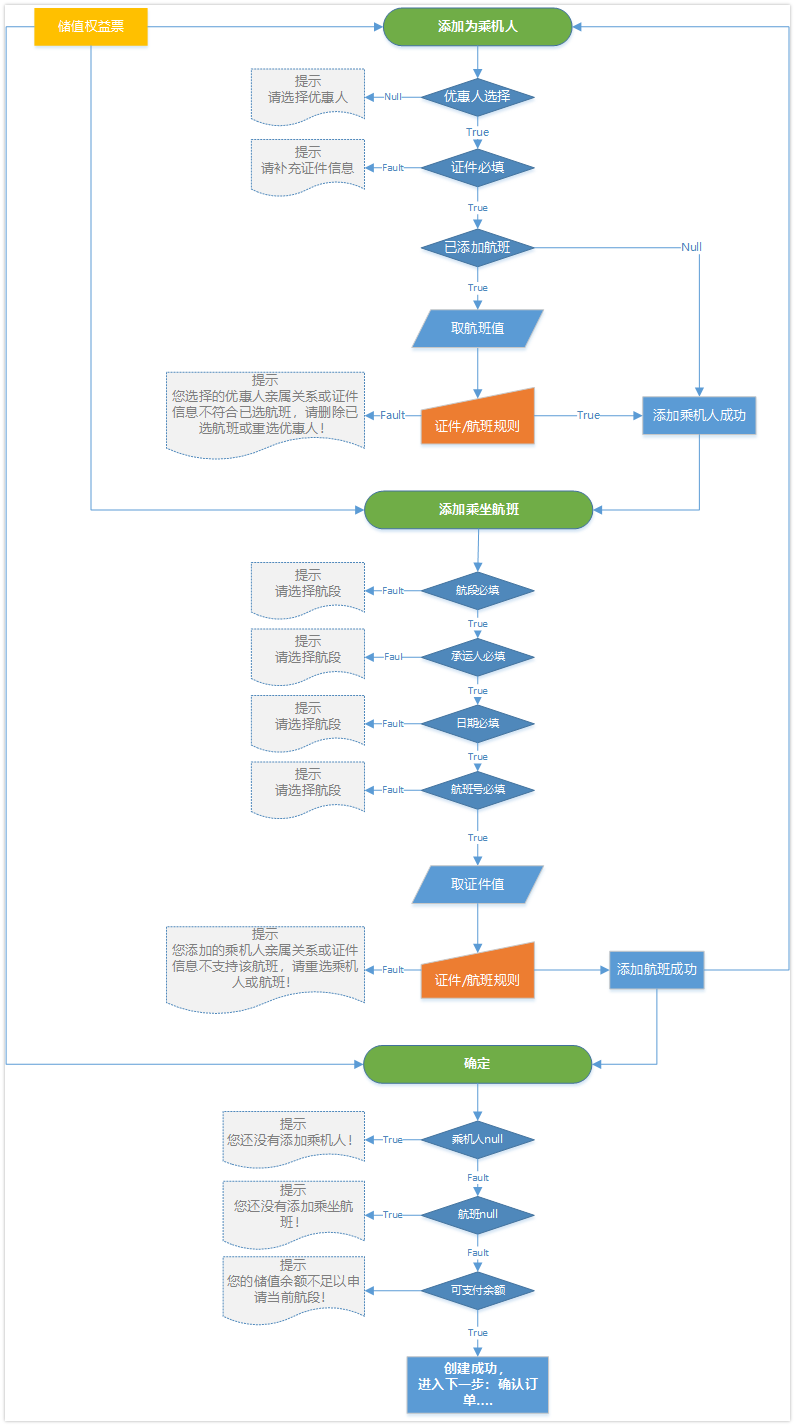
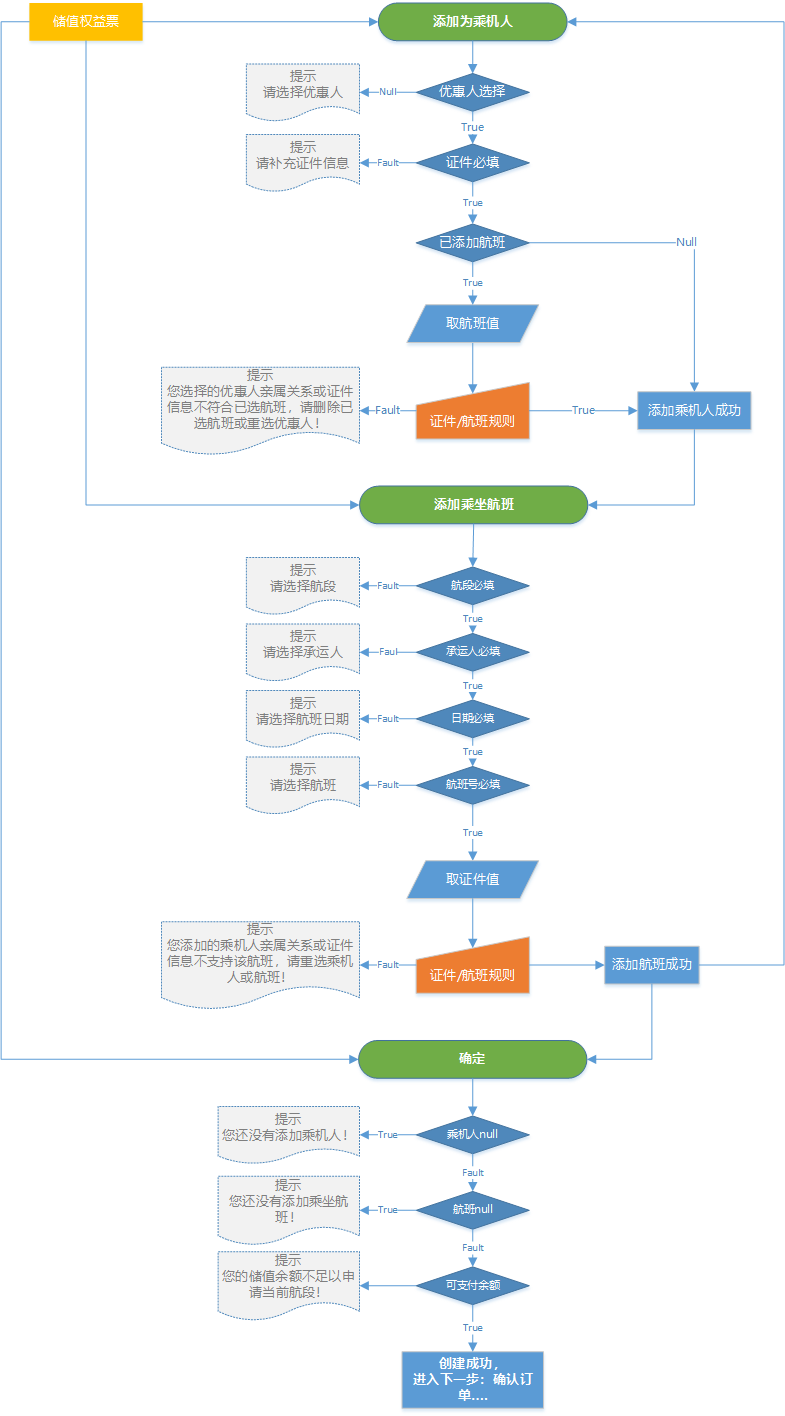
1.8.4
修改流程图的文字

diff --git a/files/pc/data.js b/files/pc/data.js
@@ -1,7 +1,7 @@
 $axure.loadCurrentPage(
 (function() {
     var _ = function() { var r={},a=arguments; for(var i=0; i<a.length; i+=2) r[a[i]]=a[i+1]; return r; }
-    var _creator = function() { return _(b,c,d,e,f,g,h,g,i,_(j,k),l,[m,n,o,p,q,r,s,t],u,_(v,w,x,y,z,A,B,_(),C,_(D,E,F,G,H,_(I,J,K,L),M,null,N,G,O,G,P,Q,R,null,S,T,U,V,W,X,Y,T),Z,_(),ba,_(),bb,_(bc,[_(bd,be,bf,j,bg,bh,x,bi,bj,bk,bl,bm,C,_(bn,_(bo,bp,bq,br),D,bs,bt,_(bu,bv,bw,bx),by,_(I,J,K,bz)),Z,_(),bA,_(),bB,_(bC,bD),bE,g),_(bd,bF,bf,j,bg,bG,x,bi,bj,bi,bl,bm,C,_(bn,_(bo,bH,bq,bI),D,bJ,bt,_(bu,bK,bw,bL)),Z,_(),bA,_(),bE,g),_(bd,bM,bf,j,bg,bN,x,bO,bj,bO,bl,bm,C,_(bn,_(bo,bP,bq,bQ),D,bR,bt,_(bu,bS,bw,bT)),bU,g,Z,_(),bA,_()),_(bd,bV,bf,j,bg,bG,x,bi,bj,bi,bl,bm,C,_(bn,_(bo,bH,bq,bI),D,bJ,bt,_(bu,bK,bw,bW)),Z,_(),bA,_(),bE,g),_(bd,bX,bf,j,bg,bG,x,bi,bj,bi,bl,bm,C,_(bn,_(bo,bP,bq,bQ),D,bY,bt,_(bu,bS,bw,bZ),by,_(I,J,K,ca),H,_(I,J,K,cb)),Z,_(),bA,_(),bE,g),_(bd,cc,bf,j,bg,bG,x,bi,bj,bi,bl,bm,C,_(bn,_(bo,bH,bq,bI),D,bJ,bt,_(bu,bK,bw,cd)),Z,_(),bA,_(),bE,g),_(bd,ce,bf,j,bg,bN,x,bO,bj,bO,bl,bm,C,_(bn,_(bo,cf,bq,bQ),D,bR,bt,_(bu,bS,bw,cg)),bU,g,Z,_(),bA,_()),_(bd,ch,bf,j,bg,bN,x,bO,bj,bO,bl,bm,C,_(bn,_(bo,ci,bq,bQ),D,bR,bt,_(bu,cj,bw,bZ)),bU,g,Z,_(),bA,_()),_(bd,ck,bf,j,bg,bG,x,bi,bj,bi,bl,bm,C,_(bn,_(bo,bH,bq,bI),D,bJ,bt,_(bu,cl,bw,bW)),Z,_(),bA,_(),bE,g),_(bd,cm,bf,j,bg,bG,x,bi,bj,bi,bl,bm,C,_(cn,_(I,J,K,co,cp,bp),bn,_(bo,cq,bq,bI),D,bJ,bt,_(bu,cr,bw,cd),cs,bm),Z,_(),bA,_(),bE,g),_(bd,ct,bf,j,bg,bG,x,bi,bj,bi,bl,bm,C,_(bn,_(bo,cu,bq,bI),D,bJ,bt,_(bu,cv,bw,cd)),Z,_(),bA,_(),bE,g),_(bd,cw,bf,j,bg,bG,x,bi,bj,bi,bl,bm,C,_(bn,_(bo,cx,bq,bQ),D,bY,bt,_(bu,cy,bw,cg),by,_(I,J,K,ca)),Z,_(),bA,_(),bE,g),_(bd,cz,bf,j,bg,bG,x,bi,bj,bi,bl,bm,C,_(bn,_(bo,cq,bq,bI),D,bJ,bt,_(bu,cA,bw,cd)),Z,_(),bA,_(),bE,g),_(bd,cB,bf,j,bg,bG,x,bi,bj,bi,bl,bm,C,_(bn,_(bo,cx,bq,bQ),D,bY,bt,_(bu,cC,bw,cg),by,_(I,J,K,ca)),Z,_(),bA,_(),bE,g),_(bd,cD,bf,j,bg,cE,x,cF,bj,cF,bl,g,C,_(bn,_(bo,cG,bq,cH),bt,_(bu,cI,bw,cJ),bl,g),Z,_(),bA,_(),cK,cL,cM,g,cN,g,cO,[_(bd,cP,bf,cQ,x,cR,bc,[_(bd,cS,bf,j,bg,cT,cU,cD,cV,cW,x,cX,bj,cX,bl,bm,C,_(D,cY,bn,_(bo,cZ,bq,cH),bt,_(bu,da,bw,db)),Z,_(),bA,_(),bB,_(bC,dc)),_(bd,dd,bf,j,bg,de,cU,cD,cV,cW,x,df,bj,df,bl,bm,C,_(bn,_(bo,dg,bq,cu),bt,_(bu,dh,bw,di)),Z,_(),bA,_(),ba,_(dj,_(dk,dl,dm,[_(dk,dn,dp,g,dq,[_(dr,ds,dk,dt,du,[_(dv,[cD],dw,_(dx,dy,dz,_(dA,dB,dC,g,dD,bm,dE,cL,dF,dG)))])])])),dH,bm)],C,_(H,_(I,J,K,dI),M,null,N,G,O,G,P,Q),Z,_())]),_(bd,dJ,bf,j,bg,bG,x,bi,bj,bi,bl,bm,C,_(bn,_(bo,cq,bq,bI),D,bJ,bt,_(bu,bK,bw,dK)),Z,_(),bA,_(),bE,g),_(bd,dL,bf,j,bg,dM,x,dN,bj,dN,bl,bm,C,_(bn,_(bo,dO,bq,bI),D,dP,bt,_(bu,bS,bw,dK)),Z,_(),bA,_(),dQ,bI),_(bd,dR,bf,j,bg,bG,x,bi,bj,bi,bl,bm,C,_(bn,_(bo,cq,bq,bI),D,bJ,bt,_(bu,bK,bw,dS)),Z,_(),bA,_(),bE,g),_(bd,dT,bf,j,bg,bN,x,bO,bj,bO,bl,bm,C,_(bn,_(bo,cf,bq,bQ),D,bR,bt,_(bu,bS,bw,dU)),bU,g,Z,_(),bA,_()),_(bd,dV,bf,j,bg,bG,x,bi,bj,bi,bl,bm,C,_(bn,_(bo,cq,bq,bI),D,bJ,bt,_(bu,bK,bw,dW)),Z,_(),bA,_(),bE,g),_(bd,dX,bf,j,bg,bG,x,bi,bj,bi,bl,bm,C,_(bn,_(bo,bv,bq,bQ),D,bY,bt,_(bu,dY,bw,dZ),by,_(I,J,K,ca)),Z,_(),bA,_(),bE,g),_(bd,ea,bf,j,bg,bG,x,bi,bj,bi,bl,bm,C,_(bn,_(bo,eb,bq,bQ),D,bY,bt,_(bu,ec,bw,dZ),by,_(I,J,K,ca)),Z,_(),bA,_(),bE,g),_(bd,ed,bf,j,bg,bN,x,bO,bj,bO,bl,bm,C,_(bn,_(bo,cf,bq,bQ),D,bR,bt,_(bu,ee,bw,dZ)),bU,g,Z,_(),bA,_()),_(bd,ef,bf,j,bg,bG,x,bi,bj,bi,bl,bm,C,_(bn,_(bo,cu,bq,bI),D,bJ,bt,_(bu,eg,bw,dW)),Z,_(),bA,_(),bE,g),_(bd,eh,bf,j,bg,bG,x,bi,bj,bi,bl,bm,C,_(bn,_(bo,cq,bq,bI),D,bJ,bt,_(bu,bK,bw,ei)),Z,_(),bA,_(),bE,g),_(bd,ej,bf,j,bg,bG,x,bi,bj,bi,bl,bm,C,_(bn,_(bo,cf,bq,bQ),D,bY,bt,_(bu,bS,bw,ek),by,_(I,J,K,ca)),Z,_(),bA,_(),bE,g),_(bd,el,bf,j,bg,bN,x,bO,bj,bO,bl,bm,C,_(bn,_(bo,em,bq,bQ),D,bR,bt,_(bu,en,bw,ek)),bU,g,Z,_(),bA,_()),_(bd,eo,bf,j,bg,bG,x,bi,bj,bi,bl,bm,C,_(bn,_(bo,cu,bq,bI),D,bJ,bt,_(bu,ep,bw,eq)),Z,_(),bA,_(),bE,g),_(bd,er,bf,j,bg,bG,x,bi,bj,bi,bl,bm,C,_(bn,_(bo,cu,bq,bI),D,bJ,bt,_(bu,es,bw,dW)),Z,_(),bA,_(),bE,g),_(bd,et,bf,j,bg,bG,x,bi,bj,bi,bl,bm,C,_(bn,_(bo,cu,bq,bI),D,bJ,bt,_(bu,bS,bw,dW)),Z,_(),bA,_(),bE,g),_(bd,eu,bf,j,bg,cE,x,cF,bj,cF,bl,g,C,_(bn,_(bo,ev,bq,ev),bt,_(bu,bS,bw,ew),bl,g),Z,_(),bA,_(),cK,cL,cM,bm,cN,g,cO,[_(bd,ex,bf,cQ,x,cR,bc,[_(bd,ey,bf,j,bg,cT,cU,eu,cV,cW,x,cX,bj,cX,bl,bm,C,_(D,cY,bn,_(bo,cZ,bq,cH)),Z,_(),bA,_(),bB,_(bC,ez))],C,_(H,_(I,J,K,dI),M,null,N,G,O,G,P,Q),Z,_())]),_(bd,eA,bf,j,bg,bG,x,bi,bj,bi,bl,bm,C,_(cn,_(I,J,K,eB,cp,bp),D,eC,bn,_(bo,eD,bq,eE),bt,_(bu,bK,bw,cv),eF,eG),Z,_(),bA,_(),bE,g),_(bd,eH,bf,j,bg,cT,x,cX,bj,cX,bl,bm,C,_(D,cY,bn,_(bo,eI,bq,eJ),bt,_(bu,eK,bw,eL)),Z,_(),bA,_(),bB,_(bC,eM)),_(bd,eN,bf,j,bg,cT,x,cX,bj,cX,bl,bm,C,_(D,eO,bn,_(bo,eP,bq,eP),bt,_(bu,eQ,bw,eR)),Z,_(),bA,_(),ba,_(dj,_(dk,dl,dm,[_(dk,dn,dp,g,dq,[_(dr,ds,dk,eS,du,[_(dv,[eT],dw,_(dx,eU,dz,_(dA,cL,dC,g)))])])])),dH,bm,bB,_(bC,eV)),_(bd,eT,bf,eW,bg,cE,x,cF,bj,cF,bl,g,C,_(bn,_(bo,eX,bq,eY),bt,_(bu,cH,bw,eZ),bl,g),Z,_(),bA,_(),cK,cL,cM,g,cN,g,cO,[_(bd,fa,bf,cQ,x,cR,bc,[_(bd,fb,bf,j,bg,bG,cU,eT,cV,cW,x,bi,bj,bi,bl,bm,C,_(bn,_(bo,fc,bq,fd),D,bY,fe,_(ff,bm,fg,fh,fi,fj,fk,fl,K,_(fm,cW,fn,cW,fo,cW,fp,fq)),by,_(I,J,K,bz)),Z,_(),bA,_(),bE,g),_(bd,fr,bf,j,bg,bG,cU,eT,cV,cW,x,bi,bj,bi,bl,bm,C,_(bn,_(bo,fs,bq,ft),D,bJ,bt,_(bu,fu,bw,fv),eF,eG),Z,_(),bA,_(),bE,g),_(bd,fw,bf,j,bg,cT,cU,eT,cV,cW,x,cX,bj,cX,bl,bm,C,_(D,cY,bn,_(bo,fx,bq,fx),bt,_(bu,fy,bw,fj)),Z,_(),bA,_(),ba,_(dj,_(dk,dl,dm,[_(dk,dn,dp,g,dq,[_(dr,ds,dk,fz,du,[_(dv,[eT],dw,_(dx,dy,dz,_(dA,cL,dC,g)))])])])),dH,bm,bB,_(bC,fA))],C,_(H,_(I,J,K,dI),M,null,N,G,O,G,P,Q),Z,_())]),_(bd,fB,bf,j,bg,cT,x,cX,bj,cX,bl,bm,C,_(D,eO,bn,_(bo,eP,bq,eP),bt,_(bu,eQ,bw,fC)),Z,_(),bA,_(),ba,_(dj,_(dk,dl,dm,[_(dk,dn,dp,g,dq,[_(dr,ds,dk,fD,du,[_(dv,[fE],dw,_(dx,eU,dz,_(dA,cL,dC,g)))])])])),dH,bm,bB,_(bC,eV)),_(bd,fE,bf,fF,bg,cE,x,cF,bj,cF,bl,g,C,_(bn,_(bo,eX,bq,eY),bt,_(bu,cH,bw,fG),bl,g),Z,_(),bA,_(),cK,cL,cM,g,cN,g,cO,[_(bd,fH,bf,cQ,x,cR,bc,[_(bd,fI,bf,j,bg,bG,cU,fE,cV,cW,x,bi,bj,bi,bl,bm,C,_(bn,_(bo,fc,bq,fd),D,bY,fe,_(ff,bm,fg,fh,fi,fj,fk,fl,K,_(fm,cW,fn,cW,fo,cW,fp,fq)),by,_(I,J,K,bz)),Z,_(),bA,_(),bE,g),_(bd,fJ,bf,j,bg,bG,cU,fE,cV,cW,x,bi,bj,bi,bl,bm,C,_(bn,_(bo,fs,bq,fK),D,bJ,bt,_(bu,fu,bw,fv),eF,eG),Z,_(),bA,_(),bE,g),_(bd,fL,bf,j,bg,cT,cU,fE,cV,cW,x,cX,bj,cX,bl,bm,C,_(D,cY,bn,_(bo,fx,bq,fx),bt,_(bu,fy,bw,fj)),Z,_(),bA,_(),ba,_(dj,_(dk,dl,dm,[_(dk,dn,dp,g,dq,[_(dr,ds,dk,fM,du,[_(dv,[fE],dw,_(dx,dy,dz,_(dA,cL,dC,g)))])])])),dH,bm,bB,_(bC,fA))],C,_(H,_(I,J,K,dI),M,null,N,G,O,G,P,Q),Z,_())]),_(bd,fN,bf,j,bg,cT,x,cX,bj,cX,bl,bm,C,_(D,cY,bn,_(bo,fO,bq,fP),bt,_(bu,bS,bw,fQ)),Z,_(),bA,_(),ba,_(dj,_(dk,dl,dm,[_(dk,dn,dp,g,dq,[_(dr,ds,dk,fR,du,[_(dv,[cD],dw,_(dx,eU,dz,_(dA,dB,dC,g,dD,bm,dE,cL,dF,dG)))])])])),dH,bm,bB,_(bC,fS)),_(bd,fT,bf,j,bg,cT,x,cX,bj,cX,bl,bm,C,_(D,cY,bn,_(bo,fU,bq,fV),bt,_(bu,bS,bw,fW)),Z,_(),bA,_(),ba,_(dj,_(dk,dl,dm,[_(dk,dn,dp,g,dq,[_(dr,ds,dk,fX,du,[_(dv,[eu],dw,_(dx,eU,dz,_(dA,cL,dC,g)))])])])),dH,bm,bB,_(bC,fY)),_(bd,fZ,bf,j,bg,bG,x,bi,bj,bi,bl,bm,C,_(cn,_(I,J,K,eB,cp,bp),bn,_(bo,ga,bq,bI),D,bJ,bt,_(bu,dG,bw,bL),cs,bm),Z,_(),bA,_(),bE,g),_(bd,gb,bf,j,bg,cE,x,cF,bj,cF,bl,g,C,_(bn,_(bo,gc,bq,gd),bt,_(bu,ge,bw,fx),bl,g),Z,_(),bA,_(),cK,cL,cM,bm,cN,g,cO,[_(bd,gf,bf,cQ,x,cR,bc,[_(bd,gg,bf,j,bg,cT,cU,gb,cV,cW,x,cX,bj,cX,bl,bm,C,_(D,cY,bn,_(bo,fx,bq,fx),bt,_(bu,gh,bw,ev)),Z,_(),bA,_(),ba,_(dj,_(dk,dl,dm,[_(dk,dn,dp,g,dq,[_(dr,ds,dk,gi,du,[_(dv,[fE],dw,_(dx,dy,dz,_(dA,cL,dC,g))),_(dv,[gb],dw,_(dx,dy,dz,_(dA,cL,dC,g)))])])])),dH,bm,bB,_(bC,fA)),_(bd,gj,bf,j,bg,cT,cU,gb,cV,cW,x,cX,bj,cX,bl,bm,C,_(D,cY,bn,_(bo,gk,bq,gl),bt,_(bu,fl,bw,gm),fe,_(ff,bm,fg,db,fi,db,fk,fl,K,_(fm,cW,fn,cW,fo,cW,fp,fq))),Z,_(),bA,_(),bB,_(bC,gn))],C,_(H,_(I,J,K,dI),M,null,N,G,O,G,P,Q),Z,_())]),_(bd,go,bf,j,bg,bG,x,bi,bj,bi,bl,bm,C,_(cn,_(I,J,K,gp,cp,bp),bn,_(bo,ga,bq,gq),D,bY,bt,_(bu,gr,bw,gs),gt,gu,gv,gw,by,_(I,J,K,bz),H,_(I,J,K,cb),gx,gy),Z,_(),bA,_(),ba,_(dj,_(dk,dl,dm,[_(dk,dn,dp,g,dq,[_(dr,ds,dk,fX,du,[_(dv,[gb],dw,_(dx,eU,dz,_(dA,cL,dC,g)))])])])),dH,bm,bB,_(bC,gz),bE,g)])),gA,_(),gB,_(gC,_(gD,gE),gF,_(gD,gG),gH,_(gD,gI),gJ,_(gD,gK),gL,_(gD,gM),gN,_(gD,gO),gP,_(gD,gQ),gR,_(gD,gS),gT,_(gD,gU),gV,_(gD,gW),gX,_(gD,gY),gZ,_(gD,ha),hb,_(gD,hc),hd,_(gD,he),hf,_(gD,hg),hh,_(gD,hi),hj,_(gD,hk),hl,_(gD,hm),hn,_(gD,ho),hp,_(gD,hq),hr,_(gD,hs),ht,_(gD,hu),hv,_(gD,hw),hx,_(gD,hy),hz,_(gD,hA),hB,_(gD,hC),hD,_(gD,hE),hF,_(gD,hG),hH,_(gD,hI),hJ,_(gD,hK),hL,_(gD,hM),hN,_(gD,hO),hP,_(gD,hQ),hR,_(gD,hS),hT,_(gD,hU),hV,_(gD,hW),hX,_(gD,hY),hZ,_(gD,ia),ib,_(gD,ic),id,_(gD,ie),ig,_(gD,ih),ii,_(gD,ij),ik,_(gD,il),im,_(gD,io),ip,_(gD,iq),ir,_(gD,is),it,_(gD,iu),iv,_(gD,iw),ix,_(gD,iy),iz,_(gD,iA),iB,_(gD,iC),iD,_(gD,iE),iF,_(gD,iG)));}; 
-var b="url",c="pc.html",d="generationDate",e=new Date(1551335724955.48),f="isCanvasEnabled",g=false,h="isAdaptiveEnabled",i="sketchKeys",j="",k="s0",l="variables",m="OnLoadVariable",n="NewVariable",o="varname",p="varidtype",q="varnumber",r="boardheight",s="newname",t="city",u="page",v="packageId",w="eed3b64818134de48ad50a2d8f2a80bd",x="type",y="Axure:Page",z="name",A="pc",B="notes",C="style",D="baseStyle",E="627587b6038d43cca051c114ac41ad32",F="pageAlignment",G="near",H="fill",I="fillType",J="solid",K="color",L=0xFFFFFFFF,M="image",N="imageHorizontalAlignment",O="imageVerticalAlignment",P="imageRepeat",Q="auto",R="favicon",S="sketchFactor",T="0",U="colorStyle",V="appliedColor",W="fontName",X="Applied Font",Y="borderWidth",Z="adaptiveStyles",ba="interactionMap",bb="diagram",bc="objects",bd="id",be="e5ae3d7518904a29837bd4f8c505818c",bf="label",bg="friendlyType",bh="垂直线",bi="vectorShape",bj="styleType",bk="verticalLine",bl="visible",bm=true,bn="size",bo="width",bp=1,bq="height",br=715,bs="619b2148ccc1497285562264d51992f9",bt="location",bu="x",bv=112,bw="y",bx=15,by="borderFill",bz=0xFFC9C9C9,bA="imageOverrides",bB="images",bC="normal~",bD="images/pc/regen/u0.png",bE="generateCompound",bF="c89483db2ec548e8932de7f36a35aa4d",bG="矩形",bH=71,bI=16,bJ="2285372321d148ec80932747449c36c9",bK=141,bL=69,bM="95fc71f549034704ba6beca601d2d61c",bN="下拉列表框",bO="comboBox",bP=242,bQ=28,bR="85f724022aae41c594175ddac9c289eb",bS=230,bT=63,bU="HideHintOnFocused",bV="df98f048353145d9af060e3f3bcc1a95",bW=107,bX="27d0e2581c6f44f3941d82bf7ed50373",bY="4b7bfc596114427989e10bb0b557d0ce",bZ=101,ca=0xFFD7D7D7,cb=0xFFF2F2F2,cc="c0ad0efe03364e38a5e0b8322c78adbf",cd=145,ce="c211c9ae60ec40c887fef6cea37cdcbc",cf=167,cg=139,ch="69e0fcf408114bfe94e9a2531b29baed",ci=105,cj=505,ck="be2da46f99f6464c84335159116dcbdd",cl=620,cm="779f1b05e127471cb985873ee140be0d",cn="foreGroundFill",co=0xFFFF0000,cp="opacity",cq=57,cr=415,cs="underline",ct="1ac70dc4c4524394bded32385f09077f",cu=43,cv=503,cw="d70707d7520646bb9a46070296ada13f",cx=195,cy=556,cz="222fde704ac84c11b6b411eea7d03ba0",cA=761,cB="4a00726839d94a1c8128a81654bbfcd3",cC=828,cD="9ff61dfeafc845dd94bb5e79ad9f0ff4",cE="动态面板",cF="dynamicPanel",cG=894,cH=74,cI=129,cJ=216,cK="scrollbars",cL="none",cM="fitToContent",cN="propagate",cO="diagrams",cP="41040bf6287c4e5b9d45bfe2adda05e6",cQ="State1",cR="Axure:PanelDiagram",cS="c5ed43fa93f74064ba032f4fa2744866",cT="图片",cU="parentDynamicPanel",cV="panelIndex",cW=0,cX="imageBox",cY="75a91ee5b9d042cfa01b8d565fe289c0",cZ=793,da=99,db=0,dc="images/pc/regen/u15.png",dd="5c1359a36ee24a48a7c94fcd27d8bbb0",de="热区",df="imageMapRegion",dg=51,dh=841,di=31,dj="onClick",dk="description",dl="鼠标单击时",dm="cases",dn="Case 1",dp="isNewIfGroup",dq="actions",dr="action",ds="fadeWidget",dt="隐藏 (动态面板) 拉动 元件 向下",du="objectsToFades",dv="objectPath",dw="fadeInfo",dx="fadeType",dy="hide",dz="options",dA="showType",dB="compress",dC="bringToFront",dD="vertical",dE="compressEasing",dF="compressDuration",dG=500,dH="tabbable",dI=0xFFFFFF,dJ="227eb4072a9e42ebaaf6545b7042ad11",dK=225,dL="f8993e21eec54227b713df2aab041098",dM="单选按钮",dN="radioButton",dO=100,dP="4eb5516f311c4bdfa0cb11d7ea75084e",dQ="extraLeft",dR="121ac0a592204f46be451c98ee8a915f",dS=257,dT="619f8b1e3b4a406e9298bec6fd2db3cf",dU=251,dV="8ddefa2cae5b4f1c9e16d1aa484c8de8",dW=299,dX="01a8c1c7ae464a10955413824f894546",dY=285,dZ=293,ea="609098b9b5b443549d5e98fee7be0c0b",eb=130,ec=493,ed="4d36fb53628b4bf58bbfef744f3696d1",ee=706,ef="adc3e8b8d583481bbde9f1feec3dfe6e",eg=653,eh="3b9322a3919844e482277f96e6ad5ec2",ei=338,ej="4b64f1f270f943628f9df40ed872e817",ek=331,el="8b10948a7ac34407bdebdeddf6c59db7",em=128,en=495,eo="2eac298e0deb400097ffa86cab541e93",ep=442,eq=337,er="6e943d50dc4c46d29de113c4b11bf1b4",es=440,et="d8d58403ae544564b08cc17ba5a6549d",eu="72ab0199ae5c46f88d6765981c39aa8f",ev=10,ew=419,ex="284882d56cfd4093b545e984d7b0fade",ey="1bc2d17f69d046c7a1d5767b2ae8db6d",ez="images/pc/regen/u33.png",eA="3d913ba3a0fb48cf96c6389c2da0f3f6",eB=0xFFAEAEAE,eC="4988d43d80b44008a4a415096f1632af",eD=581,eE=66,eF="lineSpacing",eG="22px",eH="5edf9091051a4469a9629ef58f06abe8",eI=264,eJ=55,eK=393,eL=590,eM="images/pc/regen/u35.png",eN="1906724dfe604758ab2cb566aeee4232",eO="d0ac5e6c287a4f999def00cb0b4075cc",eP=24,eQ=50,eR=173,eS="显示 提示说明",eT="b3ee3a8b82374820b1d5ec00908c6a86",eU="show",eV="images/pc/regen/u36.png",eW="提示说明",eX=311,eY=150,eZ=209,fa="17651db8a2694ecd8207c77e7c01af9b",fb="fe6fd88874cb4651a8bae933dd3eee8c",fc=304,fd=142,fe="outerShadow",ff="on",fg="offsetX",fh=2,fi="offsetY",fj=3,fk="blurRadius",fl=5,fm="r",fn="g",fo="b",fp="a",fq=0.349019607843137,fr="83d46c6173db4a5b99dc70d307cd076f",fs=283,ft=110,fu=14,fv=13,fw="a6259241d7144c449a9aee07a220fd1d",fx=20,fy=277,fz="隐藏 提示说明",fA="images/pc/regen/u40.png",fB="5f3fa56756c7407ead38ff6945e19cf2",fC=376,fD="显示 提示说明2",fE="b5949d66eaf3420ab487439382b79137",fF="提示说明2",fG=410,fH="f67eb24cc12641eb97c43f81a096750c",fI="3e54e404b37645bb9c6bd08d34543a44",fJ="388931f7383242b290fa2f364603526e",fK=88,fL="7c760d676c9f4fa69bb6abd380b6ebea",fM="隐藏 提示说明2",fN="45e68c79ef8949038848ebbd60f620e9",fO=136,fP=35,fQ=174,fR="显示 (动态面板) 推动 元件 向下",fS="images/pc/regen/u46.png",fT="5e8666561f77481c87937b5a716a227d",fU=149,fV=33,fW=370,fX="显示 (动态面板)",fY="images/pc/regen/u47.png",fZ="8cc83ea252264f0d84fe2091e2a4415d",ga=85,gb="5e9887b45fc843e5ac8e385e2afdb1e9",gc=819,gd=930,ge=93,gf="4a7626f344fe4d1a8436ea718ad09671",gg="b6107774d24f4fbaab67a8f5281bbfc0",gh=759,gi="隐藏 提示说明2,<br>(动态面板)",gj="4bd1e7740c954f239f622bb813d2dec9",gk=785,gl=1416,gm=36,gn="images/pc/regen/u51.png",go="7b9bf6e728a340be86ff02425af19037",gp=0xFF999999,gq=27,gr=8,gs=11,gt="cornerRadius",gu="13",gv="fontSize",gw="10px",gx="linePattern",gy="dashed",gz="images/pc/regen/u52.png",gA="masters",gB="objectPaths",gC="e5ae3d7518904a29837bd4f8c505818c",gD="scriptId",gE="u0",gF="c89483db2ec548e8932de7f36a35aa4d",gG="u1",gH="95fc71f549034704ba6beca601d2d61c",gI="u2",gJ="df98f048353145d9af060e3f3bcc1a95",gK="u3",gL="27d0e2581c6f44f3941d82bf7ed50373",gM="u4",gN="c0ad0efe03364e38a5e0b8322c78adbf",gO="u5",gP="c211c9ae60ec40c887fef6cea37cdcbc",gQ="u6",gR="69e0fcf408114bfe94e9a2531b29baed",gS="u7",gT="be2da46f99f6464c84335159116dcbdd",gU="u8",gV="779f1b05e127471cb985873ee140be0d",gW="u9",gX="1ac70dc4c4524394bded32385f09077f",gY="u10",gZ="d70707d7520646bb9a46070296ada13f",ha="u11",hb="222fde704ac84c11b6b411eea7d03ba0",hc="u12",hd="4a00726839d94a1c8128a81654bbfcd3",he="u13",hf="9ff61dfeafc845dd94bb5e79ad9f0ff4",hg="u14",hh="c5ed43fa93f74064ba032f4fa2744866",hi="u15",hj="5c1359a36ee24a48a7c94fcd27d8bbb0",hk="u16",hl="227eb4072a9e42ebaaf6545b7042ad11",hm="u17",hn="f8993e21eec54227b713df2aab041098",ho="u18",hp="121ac0a592204f46be451c98ee8a915f",hq="u19",hr="619f8b1e3b4a406e9298bec6fd2db3cf",hs="u20",ht="8ddefa2cae5b4f1c9e16d1aa484c8de8",hu="u21",hv="01a8c1c7ae464a10955413824f894546",hw="u22",hx="609098b9b5b443549d5e98fee7be0c0b",hy="u23",hz="4d36fb53628b4bf58bbfef744f3696d1",hA="u24",hB="adc3e8b8d583481bbde9f1feec3dfe6e",hC="u25",hD="3b9322a3919844e482277f96e6ad5ec2",hE="u26",hF="4b64f1f270f943628f9df40ed872e817",hG="u27",hH="8b10948a7ac34407bdebdeddf6c59db7",hI="u28",hJ="2eac298e0deb400097ffa86cab541e93",hK="u29",hL="6e943d50dc4c46d29de113c4b11bf1b4",hM="u30",hN="d8d58403ae544564b08cc17ba5a6549d",hO="u31",hP="72ab0199ae5c46f88d6765981c39aa8f",hQ="u32",hR="1bc2d17f69d046c7a1d5767b2ae8db6d",hS="u33",hT="3d913ba3a0fb48cf96c6389c2da0f3f6",hU="u34",hV="5edf9091051a4469a9629ef58f06abe8",hW="u35",hX="1906724dfe604758ab2cb566aeee4232",hY="u36",hZ="b3ee3a8b82374820b1d5ec00908c6a86",ia="u37",ib="fe6fd88874cb4651a8bae933dd3eee8c",ic="u38",id="83d46c6173db4a5b99dc70d307cd076f",ie="u39",ig="a6259241d7144c449a9aee07a220fd1d",ih="u40",ii="5f3fa56756c7407ead38ff6945e19cf2",ij="u41",ik="b5949d66eaf3420ab487439382b79137",il="u42",im="3e54e404b37645bb9c6bd08d34543a44",io="u43",ip="388931f7383242b290fa2f364603526e",iq="u44",ir="7c760d676c9f4fa69bb6abd380b6ebea",is="u45",it="45e68c79ef8949038848ebbd60f620e9",iu="u46",iv="5e8666561f77481c87937b5a716a227d",iw="u47",ix="8cc83ea252264f0d84fe2091e2a4415d",iy="u48",iz="5e9887b45fc843e5ac8e385e2afdb1e9",iA="u49",iB="b6107774d24f4fbaab67a8f5281bbfc0",iC="u50",iD="4bd1e7740c954f239f622bb813d2dec9",iE="u51",iF="7b9bf6e728a340be86ff02425af19037",iG="u52";
+    var _creator = function() { return _(b,c,d,e,f,g,h,g,i,_(j,k),l,[m,n,o,p,q,r,s,t],u,_(v,w,x,y,z,A,B,_(),C,_(D,E,F,G,H,_(I,J,K,L),M,null,N,G,O,G,P,Q,R,null,S,T,U,V,W,X,Y,T),Z,_(),ba,_(),bb,_(bc,[_(bd,be,bf,j,bg,bh,x,bi,bj,bk,bl,bm,C,_(bn,_(bo,bp,bq,br),D,bs,bt,_(bu,bv,bw,bx),by,_(I,J,K,bz)),Z,_(),bA,_(),bB,_(bC,bD),bE,g),_(bd,bF,bf,j,bg,bG,x,bi,bj,bi,bl,bm,C,_(bn,_(bo,bH,bq,bI),D,bJ,bt,_(bu,bK,bw,bL)),Z,_(),bA,_(),bE,g),_(bd,bM,bf,j,bg,bN,x,bO,bj,bO,bl,bm,C,_(bn,_(bo,bP,bq,bQ),D,bR,bt,_(bu,bS,bw,bT)),bU,g,Z,_(),bA,_()),_(bd,bV,bf,j,bg,bG,x,bi,bj,bi,bl,bm,C,_(bn,_(bo,bH,bq,bI),D,bJ,bt,_(bu,bK,bw,bW)),Z,_(),bA,_(),bE,g),_(bd,bX,bf,j,bg,bG,x,bi,bj,bi,bl,bm,C,_(bn,_(bo,bP,bq,bQ),D,bY,bt,_(bu,bS,bw,bZ),by,_(I,J,K,ca),H,_(I,J,K,cb)),Z,_(),bA,_(),bE,g),_(bd,cc,bf,j,bg,bG,x,bi,bj,bi,bl,bm,C,_(bn,_(bo,bH,bq,bI),D,bJ,bt,_(bu,bK,bw,cd)),Z,_(),bA,_(),bE,g),_(bd,ce,bf,j,bg,bN,x,bO,bj,bO,bl,bm,C,_(bn,_(bo,cf,bq,bQ),D,bR,bt,_(bu,bS,bw,cg)),bU,g,Z,_(),bA,_()),_(bd,ch,bf,j,bg,bN,x,bO,bj,bO,bl,bm,C,_(bn,_(bo,ci,bq,bQ),D,bR,bt,_(bu,cj,bw,bZ)),bU,g,Z,_(),bA,_()),_(bd,ck,bf,j,bg,bG,x,bi,bj,bi,bl,bm,C,_(bn,_(bo,bH,bq,bI),D,bJ,bt,_(bu,cl,bw,bW)),Z,_(),bA,_(),bE,g),_(bd,cm,bf,j,bg,bG,x,bi,bj,bi,bl,bm,C,_(cn,_(I,J,K,co,cp,bp),bn,_(bo,cq,bq,bI),D,bJ,bt,_(bu,cr,bw,cd),cs,bm),Z,_(),bA,_(),bE,g),_(bd,ct,bf,j,bg,bG,x,bi,bj,bi,bl,bm,C,_(bn,_(bo,cu,bq,bI),D,bJ,bt,_(bu,cv,bw,cd)),Z,_(),bA,_(),bE,g),_(bd,cw,bf,j,bg,bG,x,bi,bj,bi,bl,bm,C,_(bn,_(bo,cx,bq,bQ),D,bY,bt,_(bu,cy,bw,cg),by,_(I,J,K,ca)),Z,_(),bA,_(),bE,g),_(bd,cz,bf,j,bg,bG,x,bi,bj,bi,bl,bm,C,_(bn,_(bo,cq,bq,bI),D,bJ,bt,_(bu,cA,bw,cd)),Z,_(),bA,_(),bE,g),_(bd,cB,bf,j,bg,bG,x,bi,bj,bi,bl,bm,C,_(bn,_(bo,cx,bq,bQ),D,bY,bt,_(bu,cC,bw,cg),by,_(I,J,K,ca)),Z,_(),bA,_(),bE,g),_(bd,cD,bf,j,bg,cE,x,cF,bj,cF,bl,g,C,_(bn,_(bo,cG,bq,cH),bt,_(bu,cI,bw,cJ),bl,g),Z,_(),bA,_(),cK,cL,cM,g,cN,g,cO,[_(bd,cP,bf,cQ,x,cR,bc,[_(bd,cS,bf,j,bg,cT,cU,cD,cV,cW,x,cX,bj,cX,bl,bm,C,_(D,cY,bn,_(bo,cZ,bq,cH),bt,_(bu,da,bw,db)),Z,_(),bA,_(),bB,_(bC,dc)),_(bd,dd,bf,j,bg,de,cU,cD,cV,cW,x,df,bj,df,bl,bm,C,_(bn,_(bo,dg,bq,cu),bt,_(bu,dh,bw,di)),Z,_(),bA,_(),ba,_(dj,_(dk,dl,dm,[_(dk,dn,dp,g,dq,[_(dr,ds,dk,dt,du,[_(dv,[cD],dw,_(dx,dy,dz,_(dA,dB,dC,g,dD,bm,dE,cL,dF,dG)))])])])),dH,bm)],C,_(H,_(I,J,K,dI),M,null,N,G,O,G,P,Q),Z,_())]),_(bd,dJ,bf,j,bg,bG,x,bi,bj,bi,bl,bm,C,_(bn,_(bo,cq,bq,bI),D,bJ,bt,_(bu,bK,bw,dK)),Z,_(),bA,_(),bE,g),_(bd,dL,bf,j,bg,dM,x,dN,bj,dN,bl,bm,C,_(bn,_(bo,dO,bq,bI),D,dP,bt,_(bu,bS,bw,dK)),Z,_(),bA,_(),dQ,bI),_(bd,dR,bf,j,bg,bG,x,bi,bj,bi,bl,bm,C,_(bn,_(bo,cq,bq,bI),D,bJ,bt,_(bu,bK,bw,dS)),Z,_(),bA,_(),bE,g),_(bd,dT,bf,j,bg,bN,x,bO,bj,bO,bl,bm,C,_(bn,_(bo,cf,bq,bQ),D,bR,bt,_(bu,bS,bw,dU)),bU,g,Z,_(),bA,_()),_(bd,dV,bf,j,bg,bG,x,bi,bj,bi,bl,bm,C,_(bn,_(bo,cq,bq,bI),D,bJ,bt,_(bu,bK,bw,dW)),Z,_(),bA,_(),bE,g),_(bd,dX,bf,j,bg,bG,x,bi,bj,bi,bl,bm,C,_(bn,_(bo,bv,bq,bQ),D,bY,bt,_(bu,dY,bw,dZ),by,_(I,J,K,ca)),Z,_(),bA,_(),bE,g),_(bd,ea,bf,j,bg,bG,x,bi,bj,bi,bl,bm,C,_(bn,_(bo,eb,bq,bQ),D,bY,bt,_(bu,ec,bw,dZ),by,_(I,J,K,ca)),Z,_(),bA,_(),bE,g),_(bd,ed,bf,j,bg,bN,x,bO,bj,bO,bl,bm,C,_(bn,_(bo,cf,bq,bQ),D,bR,bt,_(bu,ee,bw,dZ)),bU,g,Z,_(),bA,_()),_(bd,ef,bf,j,bg,bG,x,bi,bj,bi,bl,bm,C,_(bn,_(bo,cu,bq,bI),D,bJ,bt,_(bu,eg,bw,dW)),Z,_(),bA,_(),bE,g),_(bd,eh,bf,j,bg,bG,x,bi,bj,bi,bl,bm,C,_(bn,_(bo,cq,bq,bI),D,bJ,bt,_(bu,bK,bw,ei)),Z,_(),bA,_(),bE,g),_(bd,ej,bf,j,bg,bG,x,bi,bj,bi,bl,bm,C,_(bn,_(bo,cf,bq,bQ),D,bY,bt,_(bu,bS,bw,ek),by,_(I,J,K,ca)),Z,_(),bA,_(),bE,g),_(bd,el,bf,j,bg,bN,x,bO,bj,bO,bl,bm,C,_(bn,_(bo,em,bq,bQ),D,bR,bt,_(bu,en,bw,ek)),bU,g,Z,_(),bA,_()),_(bd,eo,bf,j,bg,bG,x,bi,bj,bi,bl,bm,C,_(bn,_(bo,cu,bq,bI),D,bJ,bt,_(bu,ep,bw,eq)),Z,_(),bA,_(),bE,g),_(bd,er,bf,j,bg,bG,x,bi,bj,bi,bl,bm,C,_(bn,_(bo,cu,bq,bI),D,bJ,bt,_(bu,es,bw,dW)),Z,_(),bA,_(),bE,g),_(bd,et,bf,j,bg,bG,x,bi,bj,bi,bl,bm,C,_(bn,_(bo,cu,bq,bI),D,bJ,bt,_(bu,bS,bw,dW)),Z,_(),bA,_(),bE,g),_(bd,eu,bf,j,bg,cE,x,cF,bj,cF,bl,g,C,_(bn,_(bo,ev,bq,ev),bt,_(bu,bS,bw,ew),bl,g),Z,_(),bA,_(),cK,cL,cM,bm,cN,g,cO,[_(bd,ex,bf,cQ,x,cR,bc,[_(bd,ey,bf,j,bg,cT,cU,eu,cV,cW,x,cX,bj,cX,bl,bm,C,_(D,cY,bn,_(bo,cZ,bq,cH)),Z,_(),bA,_(),bB,_(bC,ez))],C,_(H,_(I,J,K,dI),M,null,N,G,O,G,P,Q),Z,_())]),_(bd,eA,bf,j,bg,bG,x,bi,bj,bi,bl,bm,C,_(cn,_(I,J,K,eB,cp,bp),D,eC,bn,_(bo,eD,bq,eE),bt,_(bu,bK,bw,cv),eF,eG),Z,_(),bA,_(),bE,g),_(bd,eH,bf,j,bg,cT,x,cX,bj,cX,bl,bm,C,_(D,cY,bn,_(bo,eI,bq,eJ),bt,_(bu,eK,bw,eL)),Z,_(),bA,_(),bB,_(bC,eM)),_(bd,eN,bf,j,bg,cT,x,cX,bj,cX,bl,bm,C,_(D,eO,bn,_(bo,eP,bq,eP),bt,_(bu,eQ,bw,eR)),Z,_(),bA,_(),ba,_(dj,_(dk,dl,dm,[_(dk,dn,dp,g,dq,[_(dr,ds,dk,eS,du,[_(dv,[eT],dw,_(dx,eU,dz,_(dA,cL,dC,g)))])])])),dH,bm,bB,_(bC,eV)),_(bd,eT,bf,eW,bg,cE,x,cF,bj,cF,bl,g,C,_(bn,_(bo,eX,bq,eY),bt,_(bu,cH,bw,eZ),bl,g),Z,_(),bA,_(),cK,cL,cM,g,cN,g,cO,[_(bd,fa,bf,cQ,x,cR,bc,[_(bd,fb,bf,j,bg,bG,cU,eT,cV,cW,x,bi,bj,bi,bl,bm,C,_(bn,_(bo,fc,bq,fd),D,bY,fe,_(ff,bm,fg,fh,fi,fj,fk,fl,K,_(fm,cW,fn,cW,fo,cW,fp,fq)),by,_(I,J,K,bz)),Z,_(),bA,_(),bE,g),_(bd,fr,bf,j,bg,bG,cU,eT,cV,cW,x,bi,bj,bi,bl,bm,C,_(bn,_(bo,fs,bq,ft),D,bJ,bt,_(bu,fu,bw,fv),eF,eG),Z,_(),bA,_(),bE,g),_(bd,fw,bf,j,bg,cT,cU,eT,cV,cW,x,cX,bj,cX,bl,bm,C,_(D,cY,bn,_(bo,fx,bq,fx),bt,_(bu,fy,bw,fj)),Z,_(),bA,_(),ba,_(dj,_(dk,dl,dm,[_(dk,dn,dp,g,dq,[_(dr,ds,dk,fz,du,[_(dv,[eT],dw,_(dx,dy,dz,_(dA,cL,dC,g)))])])])),dH,bm,bB,_(bC,fA))],C,_(H,_(I,J,K,dI),M,null,N,G,O,G,P,Q),Z,_())]),_(bd,fB,bf,j,bg,cT,x,cX,bj,cX,bl,bm,C,_(D,eO,bn,_(bo,eP,bq,eP),bt,_(bu,eQ,bw,fC)),Z,_(),bA,_(),ba,_(dj,_(dk,dl,dm,[_(dk,dn,dp,g,dq,[_(dr,ds,dk,fD,du,[_(dv,[fE],dw,_(dx,eU,dz,_(dA,cL,dC,g)))])])])),dH,bm,bB,_(bC,eV)),_(bd,fE,bf,fF,bg,cE,x,cF,bj,cF,bl,g,C,_(bn,_(bo,eX,bq,eY),bt,_(bu,cH,bw,fG),bl,g),Z,_(),bA,_(),cK,cL,cM,g,cN,g,cO,[_(bd,fH,bf,cQ,x,cR,bc,[_(bd,fI,bf,j,bg,bG,cU,fE,cV,cW,x,bi,bj,bi,bl,bm,C,_(bn,_(bo,fc,bq,fd),D,bY,fe,_(ff,bm,fg,fh,fi,fj,fk,fl,K,_(fm,cW,fn,cW,fo,cW,fp,fq)),by,_(I,J,K,bz)),Z,_(),bA,_(),bE,g),_(bd,fJ,bf,j,bg,bG,cU,fE,cV,cW,x,bi,bj,bi,bl,bm,C,_(bn,_(bo,fs,bq,fK),D,bJ,bt,_(bu,fu,bw,fv),eF,eG),Z,_(),bA,_(),bE,g),_(bd,fL,bf,j,bg,cT,cU,fE,cV,cW,x,cX,bj,cX,bl,bm,C,_(D,cY,bn,_(bo,fx,bq,fx),bt,_(bu,fy,bw,fj)),Z,_(),bA,_(),ba,_(dj,_(dk,dl,dm,[_(dk,dn,dp,g,dq,[_(dr,ds,dk,fM,du,[_(dv,[fE],dw,_(dx,dy,dz,_(dA,cL,dC,g)))])])])),dH,bm,bB,_(bC,fA))],C,_(H,_(I,J,K,dI),M,null,N,G,O,G,P,Q),Z,_())]),_(bd,fN,bf,j,bg,cT,x,cX,bj,cX,bl,bm,C,_(D,cY,bn,_(bo,fO,bq,fP),bt,_(bu,bS,bw,fQ)),Z,_(),bA,_(),ba,_(dj,_(dk,dl,dm,[_(dk,dn,dp,g,dq,[_(dr,ds,dk,fR,du,[_(dv,[cD],dw,_(dx,eU,dz,_(dA,dB,dC,g,dD,bm,dE,cL,dF,dG)))])])])),dH,bm,bB,_(bC,fS)),_(bd,fT,bf,j,bg,cT,x,cX,bj,cX,bl,bm,C,_(D,cY,bn,_(bo,fU,bq,fV),bt,_(bu,bS,bw,fW)),Z,_(),bA,_(),ba,_(dj,_(dk,dl,dm,[_(dk,dn,dp,g,dq,[_(dr,ds,dk,fX,du,[_(dv,[eu],dw,_(dx,eU,dz,_(dA,cL,dC,g)))])])])),dH,bm,bB,_(bC,fY)),_(bd,fZ,bf,j,bg,bG,x,bi,bj,bi,bl,bm,C,_(cn,_(I,J,K,eB,cp,bp),bn,_(bo,ga,bq,bI),D,bJ,bt,_(bu,dG,bw,bL),cs,bm),Z,_(),bA,_(),bE,g),_(bd,gb,bf,j,bg,cE,x,cF,bj,cF,bl,g,C,_(bn,_(bo,gc,bq,gd),bt,_(bu,ge,bw,fx),bl,g),Z,_(),bA,_(),cK,cL,cM,bm,cN,g,cO,[_(bd,gf,bf,cQ,x,cR,bc,[_(bd,gg,bf,j,bg,cT,cU,gb,cV,cW,x,cX,bj,cX,bl,bm,C,_(D,cY,bn,_(bo,fx,bq,fx),bt,_(bu,gh,bw,ev)),Z,_(),bA,_(),ba,_(dj,_(dk,dl,dm,[_(dk,dn,dp,g,dq,[_(dr,ds,dk,gi,du,[_(dv,[fE],dw,_(dx,dy,dz,_(dA,cL,dC,g))),_(dv,[gb],dw,_(dx,dy,dz,_(dA,cL,dC,g)))])])])),dH,bm,bB,_(bC,fA)),_(bd,gj,bf,j,bg,cT,cU,gb,cV,cW,x,cX,bj,cX,bl,bm,C,_(D,cY,bn,_(bo,gk,bq,gl),bt,_(bu,fl,bw,gm)),Z,_(),bA,_(),bB,_(bC,gn))],C,_(H,_(I,J,K,dI),M,null,N,G,O,G,P,Q),Z,_())]),_(bd,go,bf,j,bg,bG,x,bi,bj,bi,bl,bm,C,_(cn,_(I,J,K,gp,cp,bp),bn,_(bo,ga,bq,gq),D,bY,bt,_(bu,gr,bw,gs),gt,gu,gv,gw,by,_(I,J,K,bz),H,_(I,J,K,cb),gx,gy),Z,_(),bA,_(),ba,_(dj,_(dk,dl,dm,[_(dk,dn,dp,g,dq,[_(dr,ds,dk,fX,du,[_(dv,[gb],dw,_(dx,eU,dz,_(dA,cL,dC,g)))])])])),dH,bm,bB,_(bC,gz),bE,g)])),gA,_(),gB,_(gC,_(gD,gE),gF,_(gD,gG),gH,_(gD,gI),gJ,_(gD,gK),gL,_(gD,gM),gN,_(gD,gO),gP,_(gD,gQ),gR,_(gD,gS),gT,_(gD,gU),gV,_(gD,gW),gX,_(gD,gY),gZ,_(gD,ha),hb,_(gD,hc),hd,_(gD,he),hf,_(gD,hg),hh,_(gD,hi),hj,_(gD,hk),hl,_(gD,hm),hn,_(gD,ho),hp,_(gD,hq),hr,_(gD,hs),ht,_(gD,hu),hv,_(gD,hw),hx,_(gD,hy),hz,_(gD,hA),hB,_(gD,hC),hD,_(gD,hE),hF,_(gD,hG),hH,_(gD,hI),hJ,_(gD,hK),hL,_(gD,hM),hN,_(gD,hO),hP,_(gD,hQ),hR,_(gD,hS),hT,_(gD,hU),hV,_(gD,hW),hX,_(gD,hY),hZ,_(gD,ia),ib,_(gD,ic),id,_(gD,ie),ig,_(gD,ih),ii,_(gD,ij),ik,_(gD,il),im,_(gD,io),ip,_(gD,iq),ir,_(gD,is),it,_(gD,iu),iv,_(gD,iw),ix,_(gD,iy),iz,_(gD,iA),iB,_(gD,iC),iD,_(gD,iE),iF,_(gD,iG)));}; 
+var b="url",c="pc.html",d="generationDate",e=new Date(1551339689578.8),f="isCanvasEnabled",g=false,h="isAdaptiveEnabled",i="sketchKeys",j="",k="s0",l="variables",m="OnLoadVariable",n="NewVariable",o="varname",p="varidtype",q="varnumber",r="boardheight",s="newname",t="city",u="page",v="packageId",w="eed3b64818134de48ad50a2d8f2a80bd",x="type",y="Axure:Page",z="name",A="pc",B="notes",C="style",D="baseStyle",E="627587b6038d43cca051c114ac41ad32",F="pageAlignment",G="near",H="fill",I="fillType",J="solid",K="color",L=0xFFFFFFFF,M="image",N="imageHorizontalAlignment",O="imageVerticalAlignment",P="imageRepeat",Q="auto",R="favicon",S="sketchFactor",T="0",U="colorStyle",V="appliedColor",W="fontName",X="Applied Font",Y="borderWidth",Z="adaptiveStyles",ba="interactionMap",bb="diagram",bc="objects",bd="id",be="e5ae3d7518904a29837bd4f8c505818c",bf="label",bg="friendlyType",bh="垂直线",bi="vectorShape",bj="styleType",bk="verticalLine",bl="visible",bm=true,bn="size",bo="width",bp=1,bq="height",br=715,bs="619b2148ccc1497285562264d51992f9",bt="location",bu="x",bv=112,bw="y",bx=15,by="borderFill",bz=0xFFC9C9C9,bA="imageOverrides",bB="images",bC="normal~",bD="images/pc/regen/u0.png",bE="generateCompound",bF="c89483db2ec548e8932de7f36a35aa4d",bG="矩形",bH=71,bI=16,bJ="2285372321d148ec80932747449c36c9",bK=141,bL=69,bM="95fc71f549034704ba6beca601d2d61c",bN="下拉列表框",bO="comboBox",bP=242,bQ=28,bR="85f724022aae41c594175ddac9c289eb",bS=230,bT=63,bU="HideHintOnFocused",bV="df98f048353145d9af060e3f3bcc1a95",bW=107,bX="27d0e2581c6f44f3941d82bf7ed50373",bY="4b7bfc596114427989e10bb0b557d0ce",bZ=101,ca=0xFFD7D7D7,cb=0xFFF2F2F2,cc="c0ad0efe03364e38a5e0b8322c78adbf",cd=145,ce="c211c9ae60ec40c887fef6cea37cdcbc",cf=167,cg=139,ch="69e0fcf408114bfe94e9a2531b29baed",ci=105,cj=505,ck="be2da46f99f6464c84335159116dcbdd",cl=620,cm="779f1b05e127471cb985873ee140be0d",cn="foreGroundFill",co=0xFFFF0000,cp="opacity",cq=57,cr=415,cs="underline",ct="1ac70dc4c4524394bded32385f09077f",cu=43,cv=503,cw="d70707d7520646bb9a46070296ada13f",cx=195,cy=556,cz="222fde704ac84c11b6b411eea7d03ba0",cA=761,cB="4a00726839d94a1c8128a81654bbfcd3",cC=828,cD="9ff61dfeafc845dd94bb5e79ad9f0ff4",cE="动态面板",cF="dynamicPanel",cG=894,cH=74,cI=129,cJ=216,cK="scrollbars",cL="none",cM="fitToContent",cN="propagate",cO="diagrams",cP="41040bf6287c4e5b9d45bfe2adda05e6",cQ="State1",cR="Axure:PanelDiagram",cS="c5ed43fa93f74064ba032f4fa2744866",cT="图片",cU="parentDynamicPanel",cV="panelIndex",cW=0,cX="imageBox",cY="75a91ee5b9d042cfa01b8d565fe289c0",cZ=793,da=99,db=0,dc="images/pc/regen/u15.png",dd="5c1359a36ee24a48a7c94fcd27d8bbb0",de="热区",df="imageMapRegion",dg=51,dh=841,di=31,dj="onClick",dk="description",dl="鼠标单击时",dm="cases",dn="Case 1",dp="isNewIfGroup",dq="actions",dr="action",ds="fadeWidget",dt="隐藏 (动态面板) 拉动 元件 向下",du="objectsToFades",dv="objectPath",dw="fadeInfo",dx="fadeType",dy="hide",dz="options",dA="showType",dB="compress",dC="bringToFront",dD="vertical",dE="compressEasing",dF="compressDuration",dG=500,dH="tabbable",dI=0xFFFFFF,dJ="227eb4072a9e42ebaaf6545b7042ad11",dK=225,dL="f8993e21eec54227b713df2aab041098",dM="单选按钮",dN="radioButton",dO=100,dP="4eb5516f311c4bdfa0cb11d7ea75084e",dQ="extraLeft",dR="121ac0a592204f46be451c98ee8a915f",dS=257,dT="619f8b1e3b4a406e9298bec6fd2db3cf",dU=251,dV="8ddefa2cae5b4f1c9e16d1aa484c8de8",dW=299,dX="01a8c1c7ae464a10955413824f894546",dY=285,dZ=293,ea="609098b9b5b443549d5e98fee7be0c0b",eb=130,ec=493,ed="4d36fb53628b4bf58bbfef744f3696d1",ee=706,ef="adc3e8b8d583481bbde9f1feec3dfe6e",eg=653,eh="3b9322a3919844e482277f96e6ad5ec2",ei=338,ej="4b64f1f270f943628f9df40ed872e817",ek=331,el="8b10948a7ac34407bdebdeddf6c59db7",em=128,en=495,eo="2eac298e0deb400097ffa86cab541e93",ep=442,eq=337,er="6e943d50dc4c46d29de113c4b11bf1b4",es=440,et="d8d58403ae544564b08cc17ba5a6549d",eu="72ab0199ae5c46f88d6765981c39aa8f",ev=10,ew=419,ex="284882d56cfd4093b545e984d7b0fade",ey="1bc2d17f69d046c7a1d5767b2ae8db6d",ez="images/pc/regen/u33.png",eA="3d913ba3a0fb48cf96c6389c2da0f3f6",eB=0xFFAEAEAE,eC="4988d43d80b44008a4a415096f1632af",eD=581,eE=66,eF="lineSpacing",eG="22px",eH="5edf9091051a4469a9629ef58f06abe8",eI=264,eJ=55,eK=393,eL=590,eM="images/pc/regen/u35.png",eN="1906724dfe604758ab2cb566aeee4232",eO="d0ac5e6c287a4f999def00cb0b4075cc",eP=24,eQ=50,eR=173,eS="显示 提示说明",eT="b3ee3a8b82374820b1d5ec00908c6a86",eU="show",eV="images/pc/regen/u36.png",eW="提示说明",eX=311,eY=150,eZ=209,fa="17651db8a2694ecd8207c77e7c01af9b",fb="fe6fd88874cb4651a8bae933dd3eee8c",fc=304,fd=142,fe="outerShadow",ff="on",fg="offsetX",fh=2,fi="offsetY",fj=3,fk="blurRadius",fl=5,fm="r",fn="g",fo="b",fp="a",fq=0.349019607843137,fr="83d46c6173db4a5b99dc70d307cd076f",fs=283,ft=110,fu=14,fv=13,fw="a6259241d7144c449a9aee07a220fd1d",fx=20,fy=277,fz="隐藏 提示说明",fA="images/pc/regen/u40.png",fB="5f3fa56756c7407ead38ff6945e19cf2",fC=376,fD="显示 提示说明2",fE="b5949d66eaf3420ab487439382b79137",fF="提示说明2",fG=410,fH="f67eb24cc12641eb97c43f81a096750c",fI="3e54e404b37645bb9c6bd08d34543a44",fJ="388931f7383242b290fa2f364603526e",fK=88,fL="7c760d676c9f4fa69bb6abd380b6ebea",fM="隐藏 提示说明2",fN="45e68c79ef8949038848ebbd60f620e9",fO=136,fP=35,fQ=174,fR="显示 (动态面板) 推动 元件 向下",fS="images/pc/regen/u46.png",fT="5e8666561f77481c87937b5a716a227d",fU=149,fV=33,fW=370,fX="显示 (动态面板)",fY="images/pc/regen/u47.png",fZ="8cc83ea252264f0d84fe2091e2a4415d",ga=85,gb="5e9887b45fc843e5ac8e385e2afdb1e9",gc=819,gd=930,ge=93,gf="4a7626f344fe4d1a8436ea718ad09671",gg="b6107774d24f4fbaab67a8f5281bbfc0",gh=759,gi="隐藏 提示说明2,<br>(动态面板)",gj="f557d92e4d4845ccbae77ef93dd81068",gk=785,gl=1416,gm=36,gn="images/pc/regen/u51.png",go="7b9bf6e728a340be86ff02425af19037",gp=0xFF999999,gq=27,gr=8,gs=11,gt="cornerRadius",gu="13",gv="fontSize",gw="10px",gx="linePattern",gy="dashed",gz="images/pc/regen/u52.png",gA="masters",gB="objectPaths",gC="e5ae3d7518904a29837bd4f8c505818c",gD="scriptId",gE="u0",gF="c89483db2ec548e8932de7f36a35aa4d",gG="u1",gH="95fc71f549034704ba6beca601d2d61c",gI="u2",gJ="df98f048353145d9af060e3f3bcc1a95",gK="u3",gL="27d0e2581c6f44f3941d82bf7ed50373",gM="u4",gN="c0ad0efe03364e38a5e0b8322c78adbf",gO="u5",gP="c211c9ae60ec40c887fef6cea37cdcbc",gQ="u6",gR="69e0fcf408114bfe94e9a2531b29baed",gS="u7",gT="be2da46f99f6464c84335159116dcbdd",gU="u8",gV="779f1b05e127471cb985873ee140be0d",gW="u9",gX="1ac70dc4c4524394bded32385f09077f",gY="u10",gZ="d70707d7520646bb9a46070296ada13f",ha="u11",hb="222fde704ac84c11b6b411eea7d03ba0",hc="u12",hd="4a00726839d94a1c8128a81654bbfcd3",he="u13",hf="9ff61dfeafc845dd94bb5e79ad9f0ff4",hg="u14",hh="c5ed43fa93f74064ba032f4fa2744866",hi="u15",hj="5c1359a36ee24a48a7c94fcd27d8bbb0",hk="u16",hl="227eb4072a9e42ebaaf6545b7042ad11",hm="u17",hn="f8993e21eec54227b713df2aab041098",ho="u18",hp="121ac0a592204f46be451c98ee8a915f",hq="u19",hr="619f8b1e3b4a406e9298bec6fd2db3cf",hs="u20",ht="8ddefa2cae5b4f1c9e16d1aa484c8de8",hu="u21",hv="01a8c1c7ae464a10955413824f894546",hw="u22",hx="609098b9b5b443549d5e98fee7be0c0b",hy="u23",hz="4d36fb53628b4bf58bbfef744f3696d1",hA="u24",hB="adc3e8b8d583481bbde9f1feec3dfe6e",hC="u25",hD="3b9322a3919844e482277f96e6ad5ec2",hE="u26",hF="4b64f1f270f943628f9df40ed872e817",hG="u27",hH="8b10948a7ac34407bdebdeddf6c59db7",hI="u28",hJ="2eac298e0deb400097ffa86cab541e93",hK="u29",hL="6e943d50dc4c46d29de113c4b11bf1b4",hM="u30",hN="d8d58403ae544564b08cc17ba5a6549d",hO="u31",hP="72ab0199ae5c46f88d6765981c39aa8f",hQ="u32",hR="1bc2d17f69d046c7a1d5767b2ae8db6d",hS="u33",hT="3d913ba3a0fb48cf96c6389c2da0f3f6",hU="u34",hV="5edf9091051a4469a9629ef58f06abe8",hW="u35",hX="1906724dfe604758ab2cb566aeee4232",hY="u36",hZ="b3ee3a8b82374820b1d5ec00908c6a86",ia="u37",ib="fe6fd88874cb4651a8bae933dd3eee8c",ic="u38",id="83d46c6173db4a5b99dc70d307cd076f",ie="u39",ig="a6259241d7144c449a9aee07a220fd1d",ih="u40",ii="5f3fa56756c7407ead38ff6945e19cf2",ij="u41",ik="b5949d66eaf3420ab487439382b79137",il="u42",im="3e54e404b37645bb9c6bd08d34543a44",io="u43",ip="388931f7383242b290fa2f364603526e",iq="u44",ir="7c760d676c9f4fa69bb6abd380b6ebea",is="u45",it="45e68c79ef8949038848ebbd60f620e9",iu="u46",iv="5e8666561f77481c87937b5a716a227d",iw="u47",ix="8cc83ea252264f0d84fe2091e2a4415d",iy="u48",iz="5e9887b45fc843e5ac8e385e2afdb1e9",iA="u49",iB="b6107774d24f4fbaab67a8f5281bbfc0",iC="u50",iD="f557d92e4d4845ccbae77ef93dd81068",iE="u51",iF="7b9bf6e728a340be86ff02425af19037",iG="u52";
 return _creator();
 })());

diff --git a/files/pc/styles.css b/files/pc/styles.css
@@ -1488,10 +1488,10 @@
 #u51_img {
   border-width:0px;
   position:absolute;
-  left:-5px;
-  top:-5px;
-  width:795px;
-  height:1426px;
+  left:0px;
+  top:0px;
+  width:785px;
+  height:1416px;
 }
 #u51 {
   border-width:0px;
